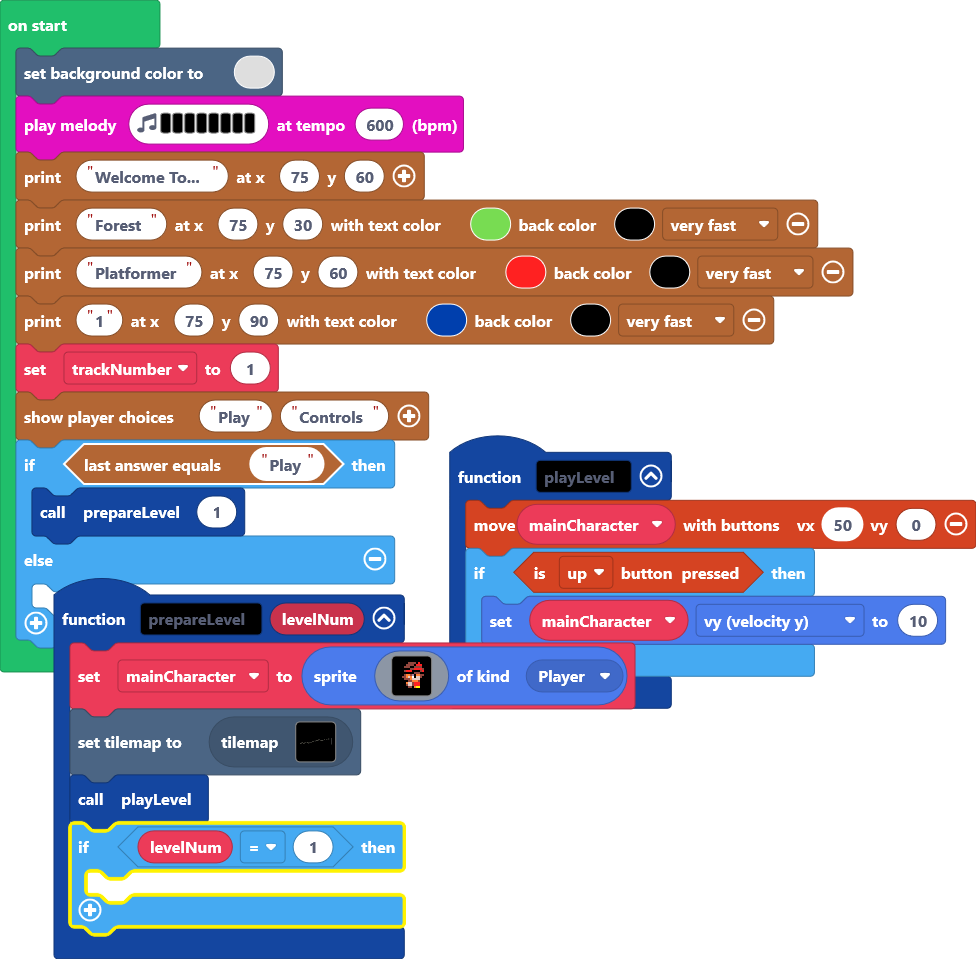
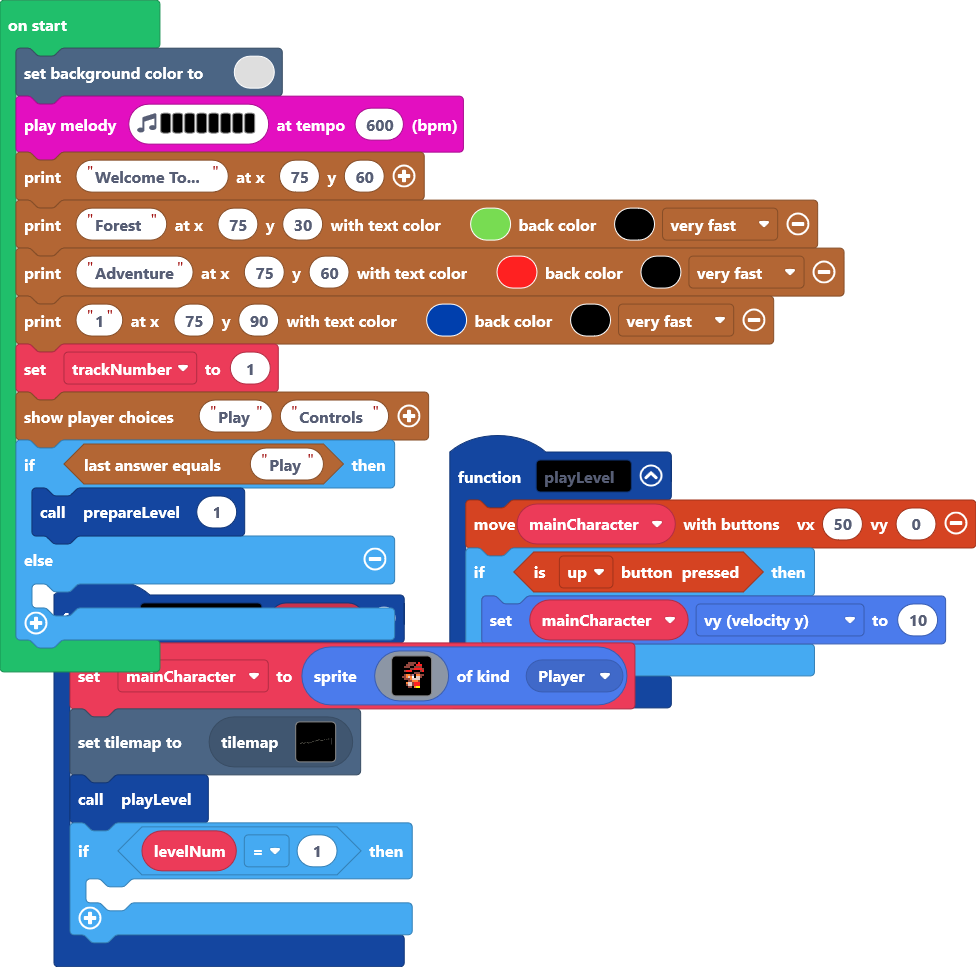
Update main.blocks, main.ts

Changed region(s): [[0.0, 0.0605, 1.0, 0.9979], [0.4918, 0.4234, 0.5225, 0.4536], [0.2459, 0.0302, 0.2766, 0.0605]]

diff --git a/main.ts b/main.ts
@@ -17,7 +17,7 @@ scene.setBackgroundColor(0)
 music.playMelody("C E D F E G F A ", 600)
 story.printText("Welcome To...", 75, 60)
 story.printText("Forest", 75, 30, 7, 15, story.TextSpeed.VeryFast)
-story.printText("Platformer", 75, 60, 2, 15, story.TextSpeed.VeryFast)
+story.printText("Adventure", 75, 60, 2, 15, story.TextSpeed.VeryFast)
 story.printText("1", 75, 90, 8, 15, story.TextSpeed.VeryFast)
 let trackNumber = 1
 story.showPlayerChoices("Play", "Controls")
